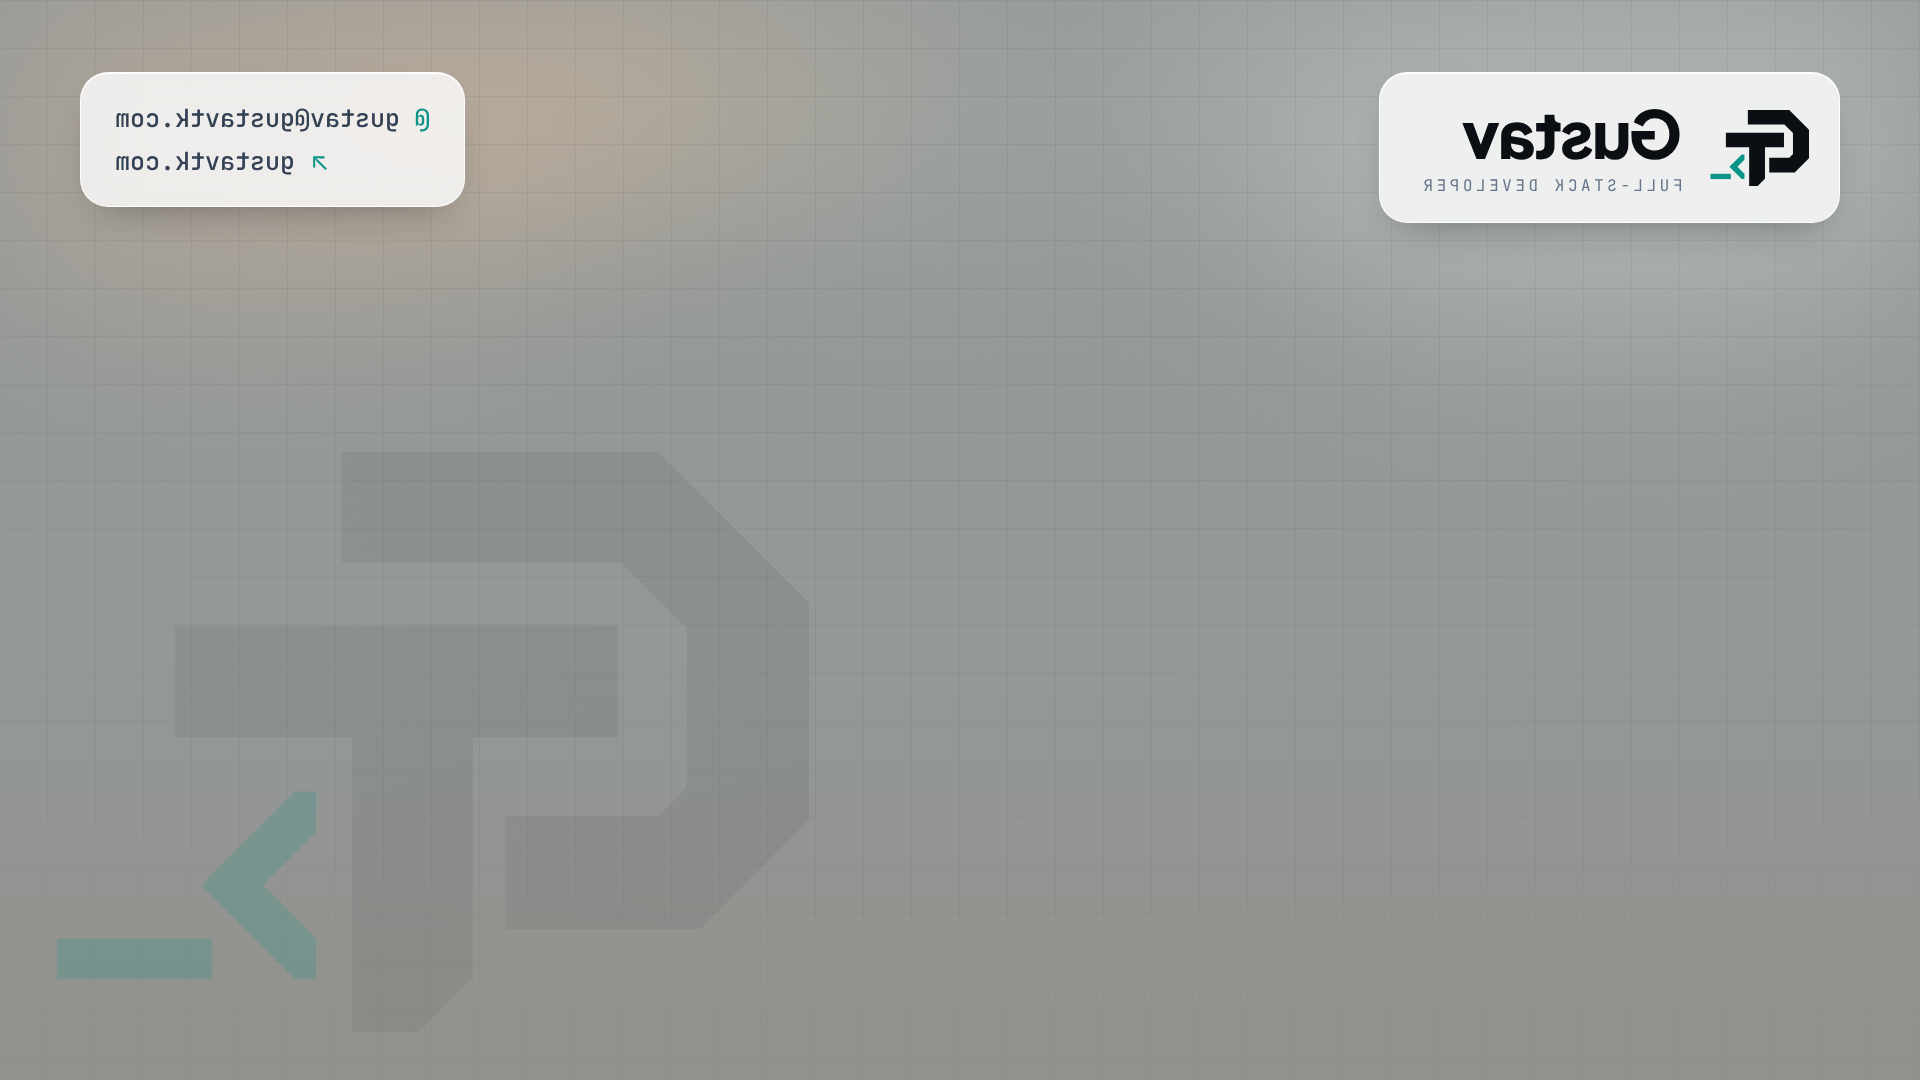
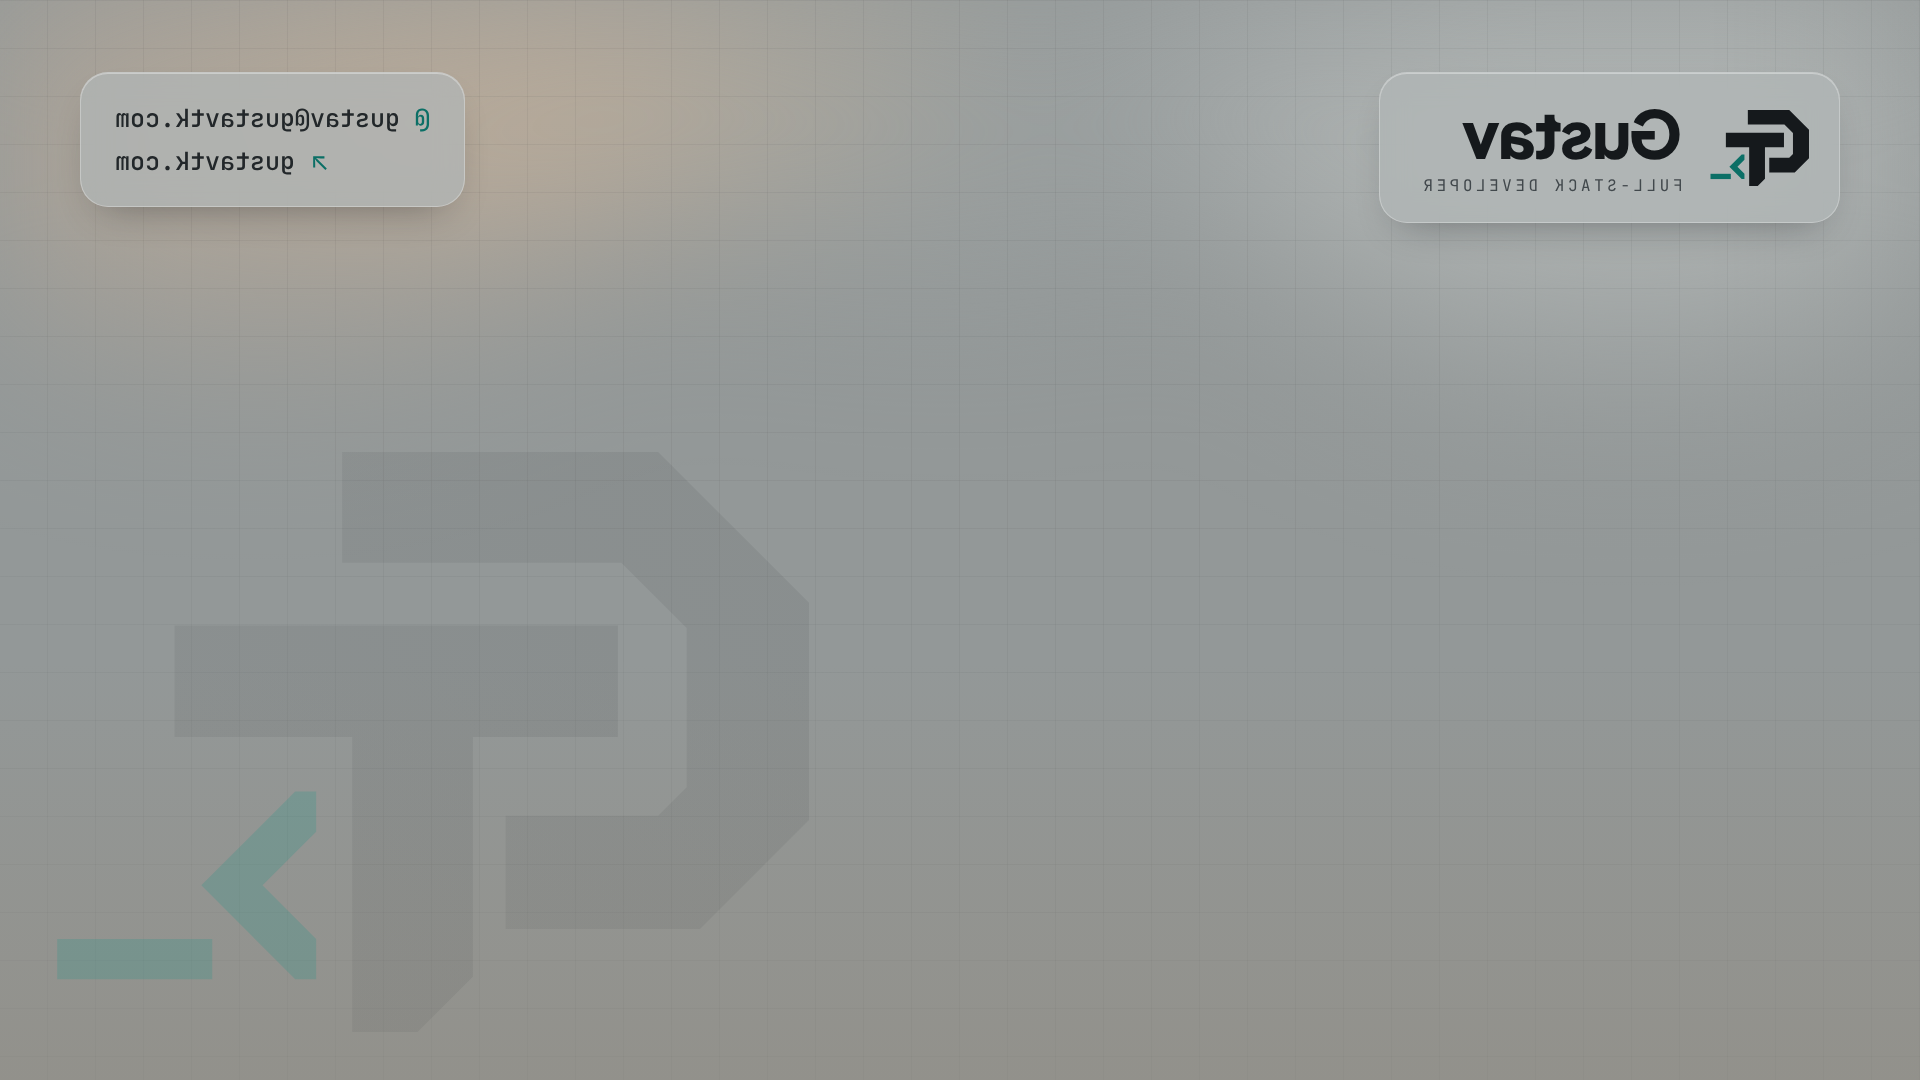
Glass Ash: ash-grey name and contact cards
Claude-Session: https://claude.ai/code/session_01H2TVSc56KQZrPADdEAeWoT

Changed region(s): [[0.7188, 0.0611, 0.9688, 0.2139], [0.0312, 0.0611, 0.25, 0.2139]]

diff --git a/meet-backgrounds/README.md b/meet-backgrounds/README.md
@@ -23,7 +23,7 @@ Logo, name and role sit top left; email and website top right; the middle stays 
 | `14-bookshelf.png` | Light-oak shelving at both edges, soft downlight on the wall behind you, mark framed on a shelf |
 | `15-blinds-light.png` | Minimal warm-ash wall with sun through blinds, plant left, framed mark on a sideboard |
 | `16-photo-office.png` | A generated photo of a grey home office (Higgsfield, Z Image): laptops removed, re-blurred, mark framed above the shelf |
-| `17-glass-ash.png` | The Glass layout in the photo office colours: ash-grey wall, cool window light left, warm lamp glow right |
+| `17-glass-ash.png` | The Glass layout in the photo office colours: ash-grey wall, cool window light left, warm lamp glow right, ash-grey cards |
 
 The room backgrounds (06, 11–16) keep the area behind your head a plain, mid-light wall so the
 edges of your hair and hands blend instead of glitching; every object sits at the edges. They
